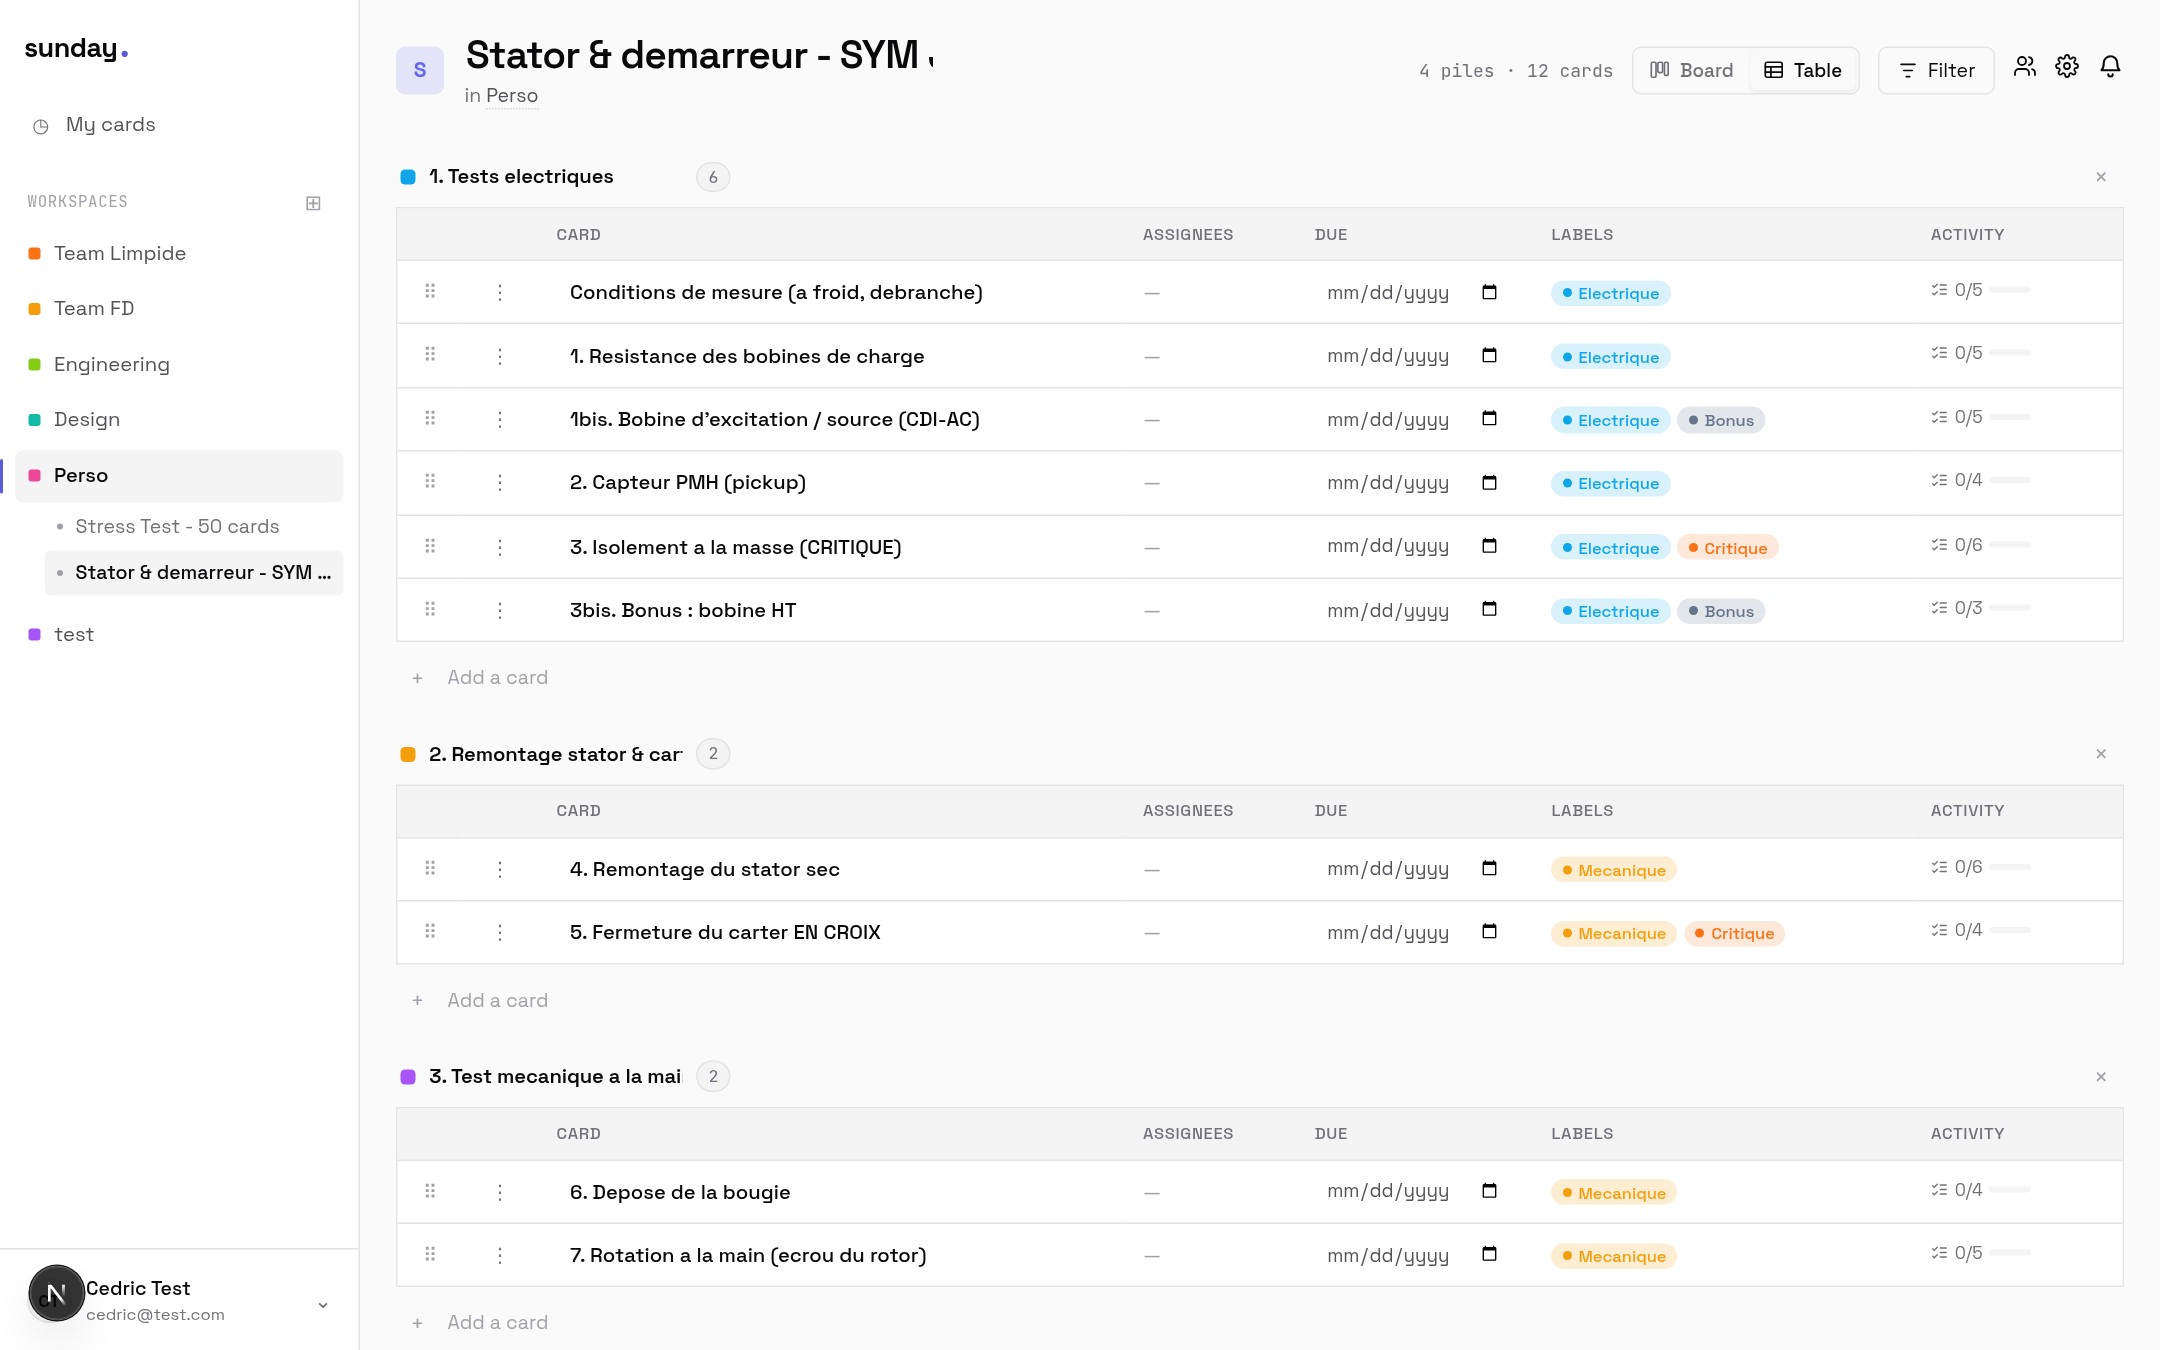
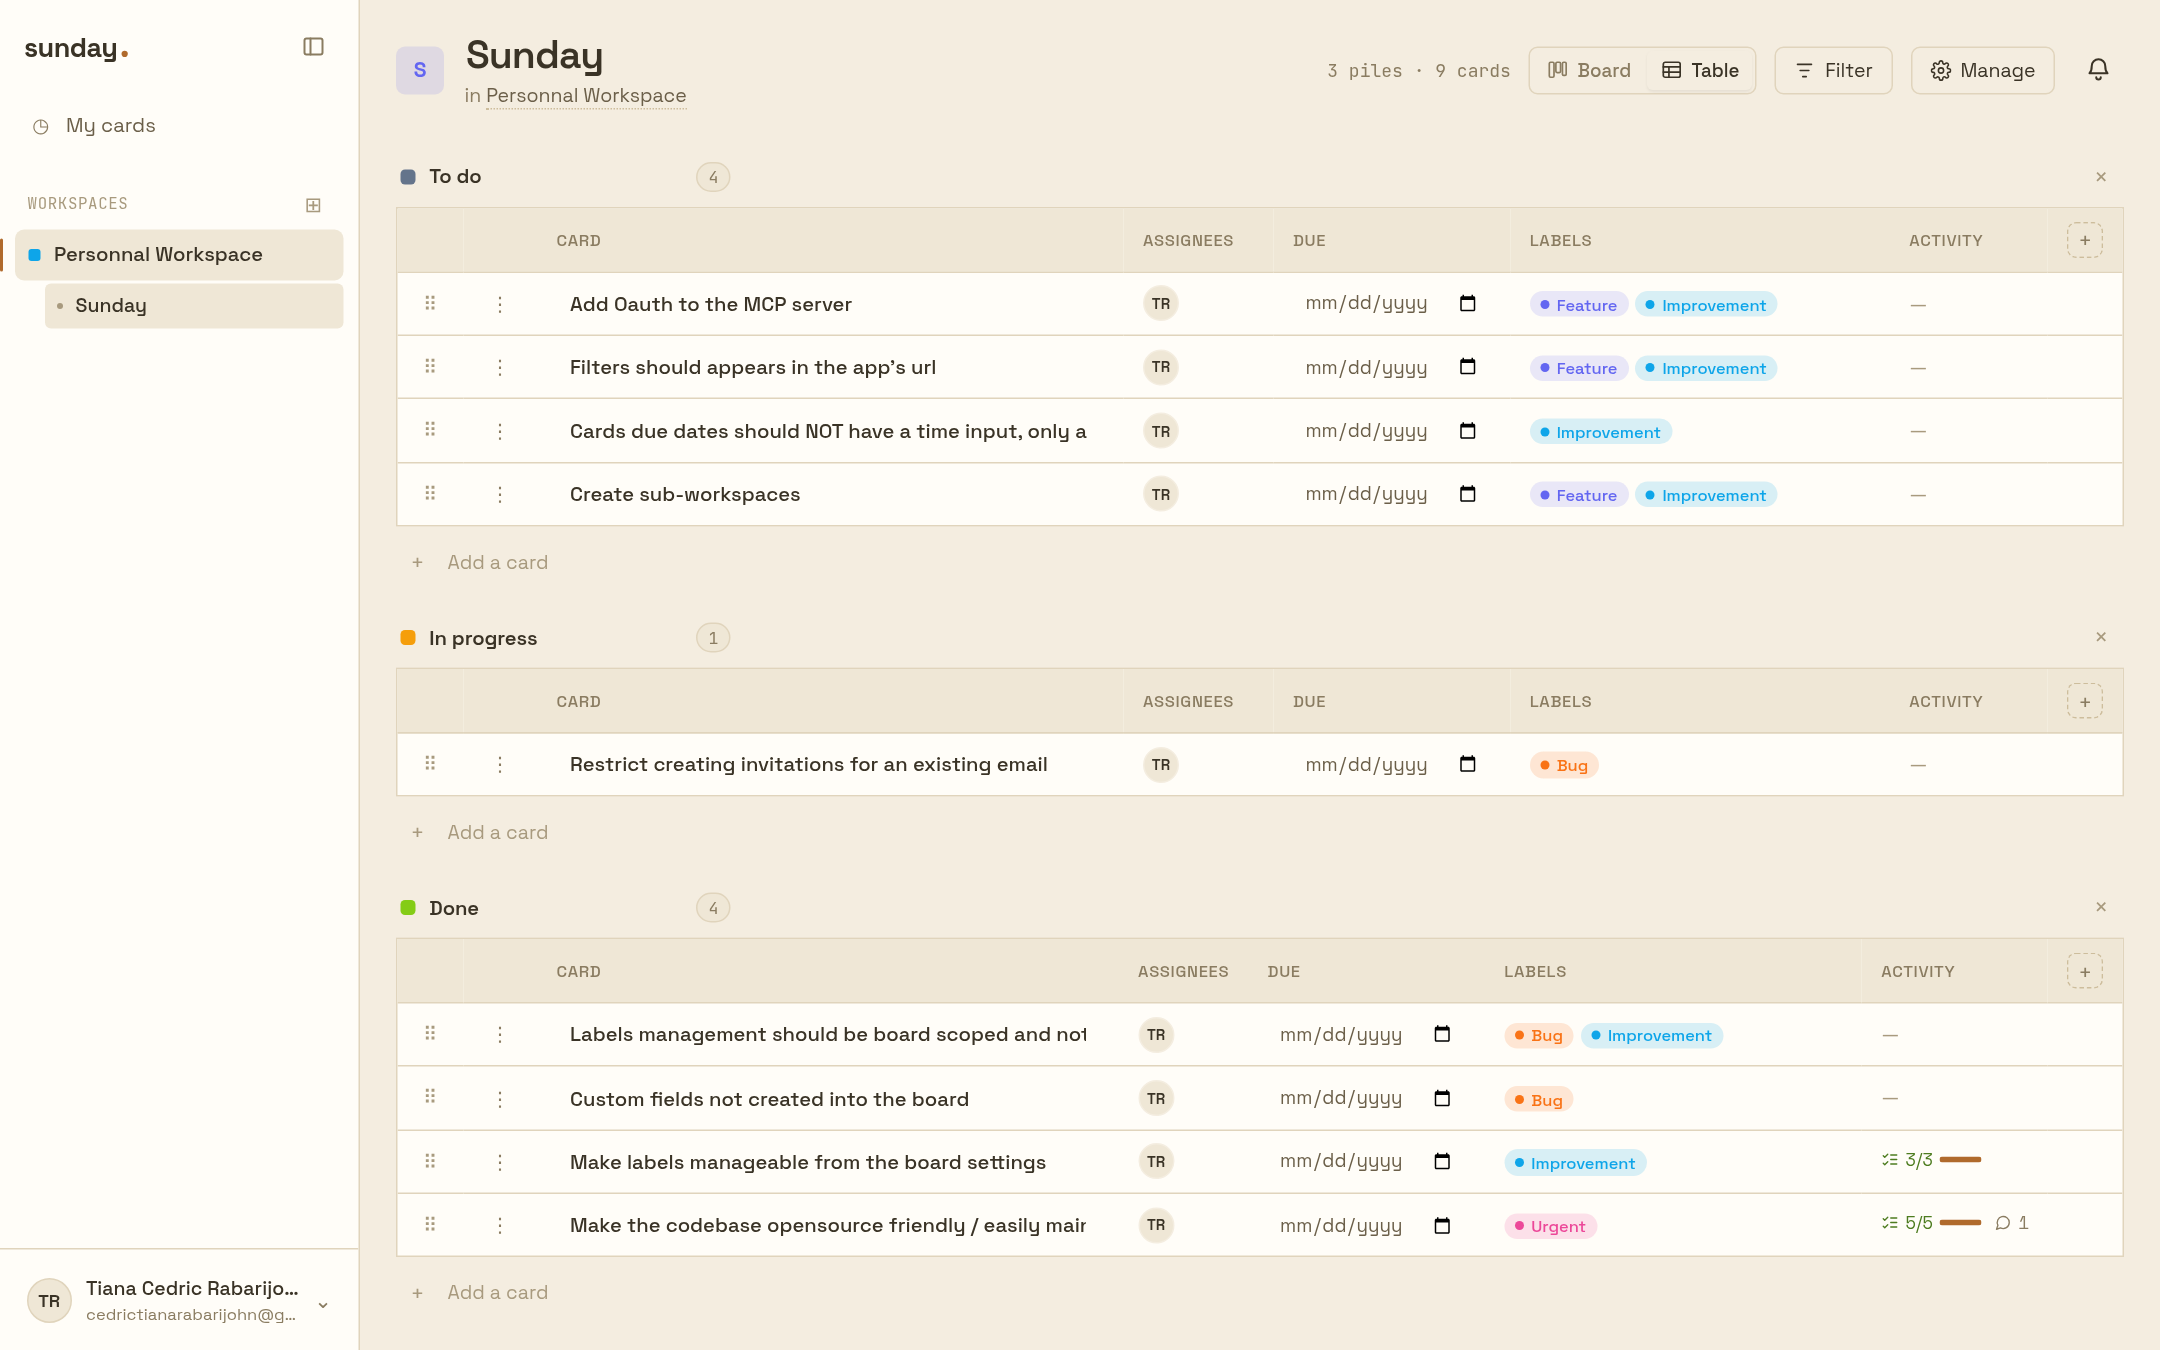
feat: use 'sand' as a default theme & update screenshots in docs

diff --git a/src/lib/themes.ts b/src/lib/themes.ts
@@ -22,7 +22,7 @@ export const THEMES: ThemeMeta[] = [
 ];
 
 export const THEME_IDS = THEMES.map((t) => t.id);
-export const DEFAULT_THEME: ThemeId = "dark";
+export const DEFAULT_THEME: ThemeId = "sand";
 
 export function isThemeId(v: unknown): v is ThemeId {
   return typeof v === "string" && (THEME_IDS as string[]).includes(v);
